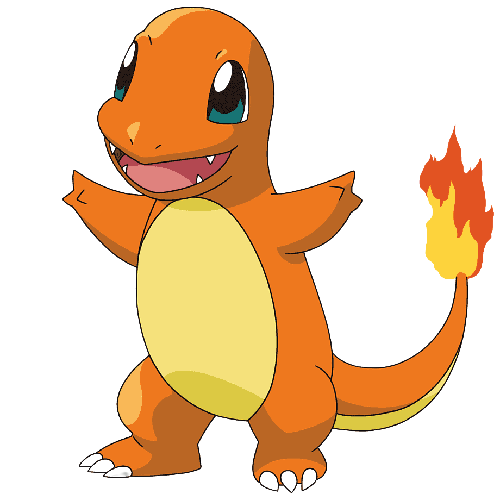
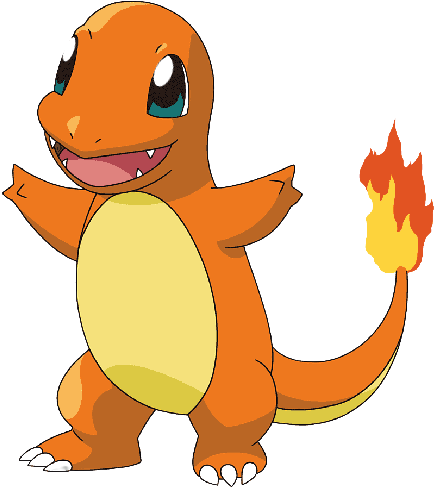
implementação do vencedor e dois controles para cada jogador, porem os controles estão bugados

diff --git a/src/components/Control.vue b/src/components/Control.vue
@@ -1,0 +1,133 @@
+<template>
+    <div class="control">
+        <button class="btn btn-ataque" type="button" @click="ataque(alvo)">Ataque</button>
+
+        <button class="btn btn-ataque-especial" type="button" @click="ataqueEspecial(alvo)">Ataque Especial</button>
+
+        <button class="btn btn-curar" type="button" @click="curar(jogador)">Curar</button>
+
+        <button class="btn btn-desistir" type="button" @click="desistir">Desistir</button>
+    </div>
+</template>
+
+<script>
+export default {
+    props: ["alvo", "jogador"],
+
+    methods: {
+        ataque(alvo) {
+            console.log("Ataque")
+
+            if (alvo === "jogador1") {
+                let novoValor1 = this.$store.state.playerPoints1 > 0 && Math.floor(this.$store.state.playerPoints1 - Math.max(0, 15) * 3)
+
+                this.$store.commit("SET_PLAYER_1", novoValor1)
+            }
+
+            if (alvo === "jogador2") {
+                let novoValor2 = this.$store.state.playerPoints1 > 0 && Math.floor(this.$store.state.playerPoints1 - Math.max(0, 15) * 3)
+
+                this.$store.commit("SET_PLAYER_2", novoValor2)
+            }
+
+            if (this.$store.state.playerPoints1 === 0 || this.$store.state.playerPoints2 === 0) {
+                this.$store.dispatch("defineWinner")
+            }
+        },
+
+        ataqueEspecial(alvo) {
+            if (alvo === "jogador1") {
+             let novoValor1 = this.$store.state.playerPoints1 > 0 ? Math.floor(this.$store.state.playerPoints1 - Math.max(0, 20) * 5) : 0
+
+                this.$store.commit("SET_PLAYER_1", novoValor1)
+            }
+
+            if (alvo === "jogador2") {
+                let novoValor2 = this.$store.state.playerPoints1 > 0 ?  Math.floor(this.$store.state.playerPoints1 - Math.max(0, 20) * 5) : 0
+
+                this.$store.commit("SET_PLAYER_2", novoValor2)
+            }
+
+            if (this.$store.state.playerPoints1 === 0 || this.$store.state.playerPoints2 === 0) {
+                this.$store.dispatch("defineWinner")
+            }
+        },
+
+        curar(jogador) {
+            console.log("curar")
+
+            if (jogador === "jogador1") {
+                let novoValor1 = this.$store.state.playerPoints1 > 0 && this.$store.state.playerPoints1 < 100 ? Math.floor(this.$store.state.playerPoints1 + Math.max(1, 20)) : 0
+                this.$store.commit("SET_PLAYER_1", novoValor1)
+            }
+            if (jogador === "jogador2") {
+                let novoValor2 = this.$store.state.playerPoints2 > 0 && this.$store.state.playerPoints2 < 100 ? Math.floor(this.$store.state.playerPoints2 + Math.max(0, 20)) : 0
+                this.$store.commit("SET_PLAYER_2", novoValor2)
+            }
+
+            if (this.$store.state.playerPoints1 === 0 || this.$store.state.playerPoints2 === 0) {
+                this.$store.dispatch("defineWinner")
+            }
+
+
+        },
+
+        desistir() {
+            this.$store.commit("SET_PLAYER_1", 100)
+            this.$store.commit("SET_PLAYER_2", 100)
+        }
+    },
+}
+</script>
+
+<style scoped>
+.control {
+    width: 500px;
+    height: 220px;
+    margin-top: 2rem;
+    padding: 1rem;
+    border: 1px solid #e477ad;
+    border-radius: 10px;
+    position: relative;
+    background-image: url("/assets/controle.png");
+    background-size: cover;
+    display: flex;
+    flex-wrap: wrap;
+    justify-content: space-around;
+    align-items: center;
+}
+
+.btn {
+    border: none;
+    outline: none;
+    border-radius: 10px;
+    width: 40%;
+    height: 80px;
+    padding: 1rem 2rem;
+    margin: 0 1rem;
+    color: #3a3939;
+    font-weight: bold;
+    font-size: 1.2rem;
+    text-transform: uppercase;
+    line-height: 1.5rem;
+    cursor: pointer;
+}
+
+.btn-ataque {
+    background-color: #8b1919;
+    color: #fff;
+}
+
+.btn-ataque-especial {
+    background-color: #f7ce1b;
+}
+
+.btn-curar {
+    background-color: #209c07;
+    color: #fff;
+}
+
+.btn-desistir {
+    background-color: #cecbcb;
+}
+</style>

diff --git a/src/App.vue b/src/App.vue
@@ -1,12 +1,16 @@
 <template>
     <div id="app">
         <div class="player-area">
-            <Player :points="this.$store.state.playerPoints1" name="Pikachu" photo="./static/assets/pikachu-inicio.png" :style="{color: '#FFD700'}" />
-            <p class="players-vs">VS</p>
-            <Player :points="this.$store.state.playerPoints2" name="Charmander" photo="./static/assets/charmander-inicio.png" :style="{color: '#FF4500'}" />
-        </div>
+            <Player :points="this.$store.state.playerPoints1" name="Pikachu" photo="./static/assets/pikachu-inicio.png" :style="{color: '#FFD700'}" alvo="jogador2" :jogador="jogador1" />
 
-        <Controls />
+            <div>
+                <p class="players-vs">VS</p>
+
+                <ScoreBoard />
+            </div>
+
+            <Player :points="this.$store.state.playerPoints2" name="Charmander" photo="./static/assets/charmander-inicio.png" :style="{color: '#FF4500'}" alvo="jogador1" :jogador="jogador2" />
+        </div>
     </div>
 </template>
 
@@ -17,16 +21,17 @@ export default {
         Player: () =>
             import ("@/components/Player.vue"),
 
-        Controls: () => import("@/components/Controls.vue")
+        ScoreBoard: () =>
+            import ("@/components/ScoreBoard.vue")
     }
 }
 </script>
 
 <style>
-*{
-  box-sizing: border-box;
-  padding:0;
-  margin: 0;
+* {
+    box-sizing: border-box;
+    padding: 0;
+    margin: 0;
 }
 
 body {

diff --git a/src/components/Player.vue b/src/components/Player.vue
@@ -7,14 +7,17 @@
             <h4 :style="style">{{name}}</h4>
         </div>
        <ProgressiveBar :id="`progress_${name}`" :points="points"/>
+
+       <Control :alvo="alvo" :jogador="jogador" />
     </div>
 </template>
 
 <script>
 export default {
-    props: ["name", "photo", "style", "points"],
+    props: ["name", "photo", "style", "points", "alvo", "jogador"],
     components: {
-      ProgressiveBar: () => import("@/components/ProgressiveBar.vue")
+      ProgressiveBar: () => import("@/components/ProgressiveBar.vue"),
+      Control: () => import("@/components/Control.vue")
     }
 }
 </script>
@@ -49,6 +52,8 @@ export default {
 .player-card img {
     width: 100%;
     display: block;
+    position: relative;
+    left: 25px;
 }
 
 .player-card h4 {

diff --git a/src/store.js b/src/store.js
@@ -7,7 +7,8 @@ Vue.use(Vuex);
 export default new Vuex.Store({
   state: {
     playerPoints1: 100,
-    playerPoints2: 100
+    playerPoints2: 100,
+    winner: ""
   },
 
   mutations: {
@@ -17,6 +18,18 @@ export default new Vuex.Store({
 
     SET_PLAYER_2(state, payload) {
       state.playerPoints2 = payload;
+    },
+
+    SET_WINNER(state, payload) {
+      state.winner = payload;
+    }
+  },
+
+  actions: {
+    defineWinner(context) {
+      context.playerPoints1 > context.playerPoints2
+        ? context.commit("SET_WINNER", "Pikachu Venceu!")
+        : context.commit("SET_WINNER", "Charmander Venceu!");
     }
   }
 });

diff --git a/src/components/ProgressiveBar.vue b/src/components/ProgressiveBar.vue
@@ -1,7 +1,7 @@
 <template>
    <div class="progress-bar">
             <div class="progress-bar-wrapper">
-                <div class="progress-bar-control"></div>
+                <div class="progress-bar-control" :style="{width: `${points}%`}"></div>
             </div>
             <p :id="id" class="progress-bar-percent">{{points}}%</p>
         </div>

diff --git a/src/components/ScoreBoard.vue b/src/components/ScoreBoard.vue
@@ -1,0 +1,19 @@
+<template>
+  <div class="score">
+    <div v-if="this.$store.state.winner">
+      {{this.$store.state.winner}}
+    </div>
+  </div>
+</template>
+
+<script>
+export default {
+}
+</script>
+
+<style scoped>
+.score{
+  font-size: 2rem;
+  font-weight: bold;
+}
+</style>
